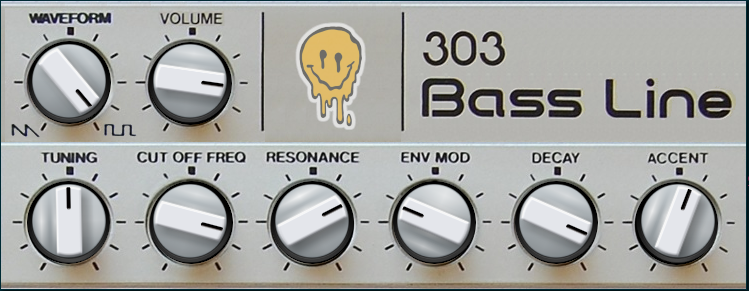
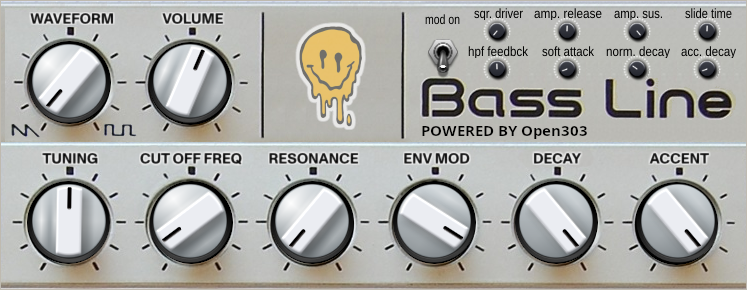
fixing: realtime multithread Gui/DSP glitch for button mod

diff --git a/src/JC303.cpp b/src/JC303.cpp
@@ -67,42 +67,42 @@ JC303::JC303()
                                                         "Square Driver",
                                                         0.0f,
                                                         1.0f,
-                                                        0.61f), // 36.9; linToLin(value, 0.0, 1.0,   0.0,     60.0)
+                                                        0.0f), 
             std::make_unique<juce::AudioParameterFloat> ("ampSustain",
                                                         "Amp. Sustain",
                                                         0.0f,
                                                         1.0f,
-                                                        0.3f),  // 0.5; linToLin(value, 0.0, 1.0, 0.0,      1.0)
+                                                        0.5f), 
             std::make_unique<juce::AudioParameterFloat> ("ampRelease",
                                                         "Amp. Release",
                                                         0.0f,
                                                         1.0f,
-                                                        0.5f), // 180.0; linToLin(value, 0.0, 1.0,   0.0,    360.0)
+                                                        0.5f), 
             std::make_unique<juce::AudioParameterFloat> ("slideTime",
                                                         "Slide time",
                                                         0.0f,
                                                         1.0f,
-                                                        0.6f),
+                                                        0.5f),
             std::make_unique<juce::AudioParameterFloat> ("feedbackFilter",
-                                                        "Filt. FeedB.",
+                                                        "Filt. FeedBack",
                                                         0.0f,
                                                         1.0f,
-                                                        0.3f), // 150.0; linToExp(value, 0.0, 1.0,  10.0,    500.0) 
+                                                        0.3f),
             std::make_unique<juce::AudioParameterFloat> ("softAttack",
                                                         "Soft Attack",
                                                         0.0f,
                                                         1.0f,
-                                                        0.05f), // 24.167; linToExp(value, 0.0, 1.0,  10.0,    500.0)
+                                                        0.1f), 
             std::make_unique<juce::AudioParameterFloat> ("normalDecay",
                                                         "Normal Decay",
                                                         0.0f,
                                                         1.0f,
-                                                        0.09f), // 44.486; linToExp(value, 0.0, 1.0,  10.0,    500.0)
+                                                        0.3f), 
             std::make_unique<juce::AudioParameterFloat> ("accentDecay",
                                                         "Accent Decay",
                                                         0.0f,
                                                         1.0f,
-                                                        0.71f) // 4.37; linToLin(value, 0.0, 1.0, -10.0,     10.0)
+                                                        0.1f) 
 
        })
 {
@@ -124,6 +124,13 @@ JC303::JC303()
     softAttack = parameters.getRawParameterValue("softAttack");
     normalDecay = parameters.getRawParameterValue("normalDecay");
     accentDecay = parameters.getRawParameterValue("accentDecay");
+    switchModState = parameters.getParameterAsValue("switchModState").getValue();
+
+    // force true > false, then valuetree
+    // restores the decay correct calculus
+    setDevilMod(true);
+    setDevilMod(false);
+    setDevilMod((bool)switchModState.get());
 }
 
 JC303::~JC303()
@@ -138,59 +145,76 @@ void JC303::setParameter (Open303Parameters index, float value)
 	switch(index)
 	{
     case WAVEFORM:
-        open303Core.setWaveform( linToLin(value, 0.0, 1.0,   0.0,      1.0) );
+        open303Core.setWaveform( linToLin(value, 0.0, 1.0,   0.0,      1.0)     );
         break;
     case TUNING:
-        open303Core.setTuning(   linToLin(value, 0.0, 1.0,  400.0,    480.0) );
+        open303Core.setTuning(   linToLin(value, 0.0, 1.0,  400.0,    480.0)    );
         break;
     case CUTOFF:
-        open303Core.setCutoff(   linToExp(value, 0.0, 1.0, 314.0,    2394.0) );
+        open303Core.setCutoff(   linToExp(value, 0.0, 1.0, 314.0,    2394.0)    );
         break;
     case RESONANCE:
-        open303Core.setResonance(linToLin(value, 0.0, 1.0,   0.0,    100.0) );
+        open303Core.setResonance(linToLin(value, 0.0, 1.0,   0.0,    100.0)     );
         break;
     case ENVMOD:
-        open303Core.setEnvMod(   linToLin(value, 0.0, 1.0,    0.0,   100.0)  );
+        open303Core.setEnvMod(   linToLin(value, 0.0, 1.0,    0.0,   100.0)     );
         break;
     case DECAY:
-        open303Core.setDecay(    linToExp(value, 0.0, 1.0,  decayMin,  decayMax) );
+        open303Core.setDecay(    linToExp(value, 0.0, 1.0,  decayMin.get(),  decayMax.get()));
         break;
     case ACCENT:
-        open303Core.setAccent(   linToLin(value, 0.0, 1.0,   0.0,    100.0) );
+        open303Core.setAccent(   linToLin(value, 0.0, 1.0,   0.0,    100.0)     );
         break;
     case VOLUME:
-        open303Core.setVolume(   linToLin(value, 0.0, 1.0, -60.0,      0.0)  );
+        open303Core.setVolume(   linToLin(value, 0.0, 1.0, -60.0,      0.0)     );
         break;
 
     //
     // MODS (mostly based on devilfish mod)
+    // BUT DONT! dont expect a devilfish clone sound or mail me about!
     // https://www.firstpr.com.au/rwi/dfish/Devil-Fish-Manual.pdf
     //
     case TANH_SHAPER_DRIVE:
         //open303Core.setTanhShaperDrive(   linToLin(value, 0.0, 1.0,   0.0,     60.0)  );
-        open303Core.setTanhShaperDrive(   linToLin(value, 0.0, 1.0,   35.0,     80.0)  );
+        open303Core.setTanhShaperDrive( linToLin(value, 0.0, 1.0,   30.0,     80.0)  );
         break;
     case AMP_SUSTAIN:
-        open303Core.setAmpSustain(        linToLin(value, 0.0, 1.0, 0.0,      5.0)  );
+        open303Core.setAmpSustain(      linToLin(value, 0.0, 1.0, -60.0,      0.0)  );
         break;
     case AMP_RELEASE: 
-        open303Core.setAmpRelease(  linToLin(value, 0.0, 1.0,   0.0,    360.0)  );
+        open303Core.setAmpRelease(      linToLin(value, 0.0, 1.0,   -1.0,    1.0)  );
         break;
     case SLIDE_TIME:
+        /*
+        The Slide Time pot. Normally the slide time is 60 ms (milliseconds). In the Devil Fish, the
+        Slide Time pot varies the time from 60 to 360 ms, when running from the internal sequencer.
+        When running from an external CV, the time is between 2 and 300 ms. 
+        */
         //open303Core.setSlideTime(         linToLin(value, 0.0, 1.0, 0.0, 60.0)        );
-        open303Core.setSlideTime(         linToLin(value, 0.0, 1.0, 0.0, 100.0)        );
+        open303Core.setSlideTime(       linToLin(value, 0.0, 1.0, 2.0, 360.0)        );
         break;
     case FEEDBACK_HPF:
-        open303Core.setFeedbackHighpass(  linToExp(value, 0.0, 1.0,  350.0,    10.0)  ); // this one is expresive only on higher reesonances
+        // this one is expresive only on higher reesonances
+        open303Core.setFeedbackHighpass(linToExp(value, 0.0, 1.0,  350.0,    10.0)  );
         break;
     case SOFT_ATTACK:
-        open303Core.setNormalAttack(linToExp(value, 0.0, 1.0,  10.0,    500.0)  );
+        /*
+        The Soft Attack pot varies the attack time of non-accented notes between 0.3 ms and 30 ms.
+        In the TB-303 there was a (typical) 4 ms delay and then a 3 ms attack time. 
+        */
+        open303Core.setNormalAttack(    linToExp(value, 0.0, 1.0,  0.3,    3000.0)  );
         break;
     case NORMAL_DECAY:
-        open303Core.setAmpDecay(        linToLin(value, 0.0, 1.0, 0.3,      30.0)  );
+        /*
+        On non-accented notes, the TB-303’s Main Envelope Generator (MEG) had a decay time
+        between 200 ms and 2 seconds – as controlled by the Decay pot. On accented notes, the
+        decay time was fixed to 200 ms. In the Devil Fish, there are two new pots for MEG decay –
+        Normal Decay and Accent Decay. Both have a range between 30 ms and 3 seconds. 
+        */
+        open303Core.setAmpDecay(        linToLin(value, 0.0, 1.0, 30.0,      3000.0)  );
         break;
     case ACCENT_DECAY:
-        open303Core.setAccentDecay(        linToLin(value, 0.0, 1.0, 30.0,      3000.0)  );
+        open303Core.setAccentDecay(     linToLin(value, 0.0, 1.0, 30.0,      3000.0)  );
         // setAmpDecay 16 > 3000
         break;
     //case FILTER_TYPE:
@@ -202,17 +226,16 @@ void JC303::setParameter (Open303Parameters index, float value)
 void JC303::setDevilMod(bool mode)
 {
     if (mode == true) {
-        
-        // fixed internal tunes, mostly based on devil fish
+        // fixed internal tunning, mostly based on devil fish
         // setAccentAttack(3) 3ms devil vs ?? original
-        open303Core.setAccentAttack(3.0);
+        ////open303Core.setAccentAttack(3.0);
         // devilfish extended decay range
         decayMin = 30.0;
         decayMax = 3000.0;
     } else if (mode == false) {
         // restore original 303 values and block devilfish mod knobs to operate
         open303Core.setTanhShaperDrive(36.9); // dB2amp(36.9); 
-        open303Core.setAmpSustain(-6.0); // dB2amp(newSustain) = 0.5 ~ -6.0205
+        open303Core.setAmpSustain(-6.02); // dB2amp(newSustain) = 0.5 ~ -6.0205 or -8.68589?
         open303Core.setAmpRelease(1.0); // 1.0
         open303Core.setSlideTime(60.0); // 60.0;
         open303Core.setFeedbackHighpass(150.0); // filter.setFeedbackHighpassCutoff(150.0);
@@ -220,7 +243,7 @@ void JC303::setDevilMod(bool mode)
         open303Core.setAmpDecay(1230.0); // ampEnv.setDecay(1230.0);
         open303Core.setAccentDecay(200.0); // 200.0
         // fixed parameters restore
-        open303Core.setAccentAttack(3.0); // 3.0?
+        ////open303Core.setAccentAttack(3.0); // 3.0?
         // original tb303 decay range
         decayMin = 200.0;
         decayMax = 2000.0;
@@ -232,19 +255,6 @@ void JC303::setSwitchModState(bool newState)
     switchModState = newState;
     setDevilMod(newState);
 }
-
-/* 
-// keep track of host changes for switchMod
-void JC303::parameterValueChanged(int parameterIndex, float newValue)
-{
-    if (parameterIndex == 8) // switchModButton
-    {
-        // Update switchModState when the parameter changes
-        switchModState = (newValue != 0.0f);
-        setDevilMod(switchModState);
-        // change interface parameter too!
-    }
-} */
 
 //==============================================================================
 const juce::String JC303::getName() const
@@ -392,6 +402,7 @@ void JC303::processBlock (juce::AudioBuffer<float>& buffer,
     // Safely read the switchModState within processBlock
     // using Atomic access
     bool currentSwitchState = switchModState.get(); 
+    //bool currentSwitchState = parameters.getParameterAsValue("switchModState").getValue();
 
     if (currentSwitchState) {
         setParameter(TANH_SHAPER_DRIVE, *sqrDriver);

diff --git a/src/Gui.cpp b/src/Gui.cpp
@@ -16,12 +16,12 @@ JC303Editor::JC303Editor (JC303& p, juce::AudioProcessorValueTreeState& vts)
     // MODs
     // row 1
     addAndMakeVisible(sqrDriverSlider = createModKnob("sqr. driver"));
+    addAndMakeVisible(ampReleaseSlider = createModKnob("amp. release"));
     addAndMakeVisible(ampSustainSlider = createModKnob("amp. sus."));
-    addAndMakeVisible(ampReleaseSlider = createModKnob("amp. rel."));
     addAndMakeVisible(slideTimeSlider = createModKnob("slide time"));
     // row 2
     addAndMakeVisible(feedbackFilterSlider = createModKnob("hpf feedbck"));
-    addAndMakeVisible(softAttackSlider = createModKnob("soft attk."));
+    addAndMakeVisible(softAttackSlider = createModKnob("soft attack"));
     addAndMakeVisible(normalDecaySlider = createModKnob("norm. decay"));
     addAndMakeVisible(accentDecaySlider = createModKnob("acc. decay"));
     // on/off mod switch
@@ -37,6 +37,7 @@ JC303Editor::JC303Editor (JC303& p, juce::AudioProcessorValueTreeState& vts)
     accentAttachment.reset (new SliderAttachment (valueTreeState, "accent", *accentSlider));
     volumeAttachment.reset (new SliderAttachment (valueTreeState, "volume", *volumeSlider));
     // MODs
+    switchModButtonAttachment.reset(new ButtonAttachment(valueTreeState, "switchModState", *switchModButton));
     sqrDriverAttachment.reset(new SliderAttachment(valueTreeState, "sqrDriver", *sqrDriverSlider));
     ampReleaseAttachment.reset(new SliderAttachment(valueTreeState, "ampSustain", *ampSustainSlider));
     ampSustainAttachment.reset(new SliderAttachment(valueTreeState, "ampRelease", *ampReleaseSlider));
@@ -62,16 +63,14 @@ JC303Editor::~JC303Editor()
 void JC303Editor::handleSwitchModButton()
 {
     // get our selfs a lock for swtich mod changes
-    juce::MessageManagerLock lock;
+    //juce::MessageManagerLock lock;
 
     // Get the state of the mod button
     bool modButtonState = switchModButton->getToggleState();
 
-    if (lock.lockWasGained())
-    {
+    //if (lock.lockWasGained())/
         // Update the mod state in the processor
         processorRef.setSwitchModState(modButtonState);
-    }
 }
 
 //==============================================================================

diff --git a/src/JC303.h b/src/JC303.h
@@ -29,20 +29,8 @@ enum Open303Parameters
   OPEN303_NUM_PARAMETERS
 };
 
-// we need to keep track of defaults 303 internal values to restore in case MODs reset request.
-// driver           =     36.9; dB2amp(TANH_SHAPER_DRIVE) => applies to square wave only (waveTable2.tanhShaperFactor)
-// ampSustain     =     
-// ampRelease       =    
-// slideTime        =     60.0;
-// preFilter        =     
-// softAttack       =     
-// feedbackFilter   =     150.0; (FEEDBACK_HPF) => (filter.setFeedbackHighpassCutoff)
-// ampSustain       =     0.5; => wich is AnalogEnvelope::sustainLevel   = 0.5;
-
-// filterType       =     TeeBeeFilter::TB_303 => it will be a select box with TeeBeeFilter::NUM_MODES options
-
 //==============================================================================
-class JC303  : public juce::AudioProcessor
+class JC303  :  public juce::AudioProcessor
 {
 public:
     //==============================================================================
@@ -57,9 +45,6 @@ public:
 
     void processBlock (juce::AudioBuffer<float>&, juce::MidiBuffer&) override;
     using AudioProcessor::processBlock;
-
-    // what is the signature for this one on juce7?
-    //void parameterValueChanged(int parameterIndex, float newValue) override;
 
     void setSwitchModState(bool newState);
     void setDevilMod(bool mode);
@@ -116,12 +101,10 @@ private:
     std::atomic<float>* normalDecay = nullptr;
     std::atomic<float>* accentDecay = nullptr;
     //std::atomic<float>* filterType = nullptr;
-    // mod switcc
-    // Atomic variable to safely communicate between GUI and audio threads
     // mod fixed ranges support
-    double decayMin;
-    double decayMax;
-    juce::Atomic<bool> switchModState{ false };
+    juce::Atomic<bool> switchModState = false;
+    juce::Atomic<double> decayMin = 200;
+    juce::Atomic<double> decayMax = 2000;
 
     //==============================================================================
     JUCE_DECLARE_NON_COPYABLE_WITH_LEAK_DETECTOR (JC303)

diff --git a/src/Gui.h b/src/Gui.h
@@ -8,6 +8,7 @@
 #include "gui/SwitchButton.h"
 
 typedef juce::AudioProcessorValueTreeState::SliderAttachment SliderAttachment;
+typedef juce::AudioProcessorValueTreeState::ButtonAttachment ButtonAttachment;
 
 //==============================================================================
 class JC303Editor  : public juce::AudioProcessorEditor
@@ -67,6 +68,7 @@ private:
     std::unique_ptr<SliderAttachment> accentAttachment;
     std::unique_ptr<SliderAttachment> volumeAttachment;
     // MODs
+    std::unique_ptr<ButtonAttachment> switchModButtonAttachment;
     std::unique_ptr<SliderAttachment> sqrDriverAttachment;
     std::unique_ptr<SliderAttachment> ampReleaseAttachment;
     std::unique_ptr<SliderAttachment> ampSustainAttachment;
